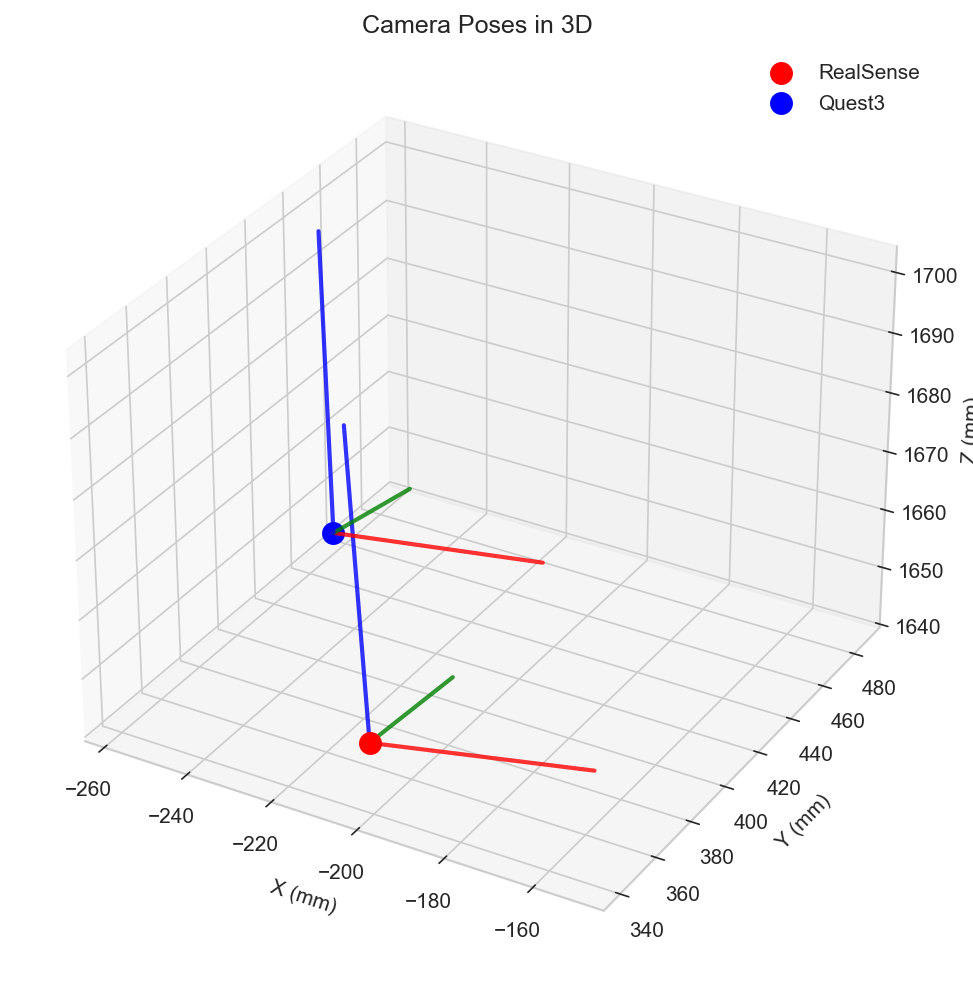
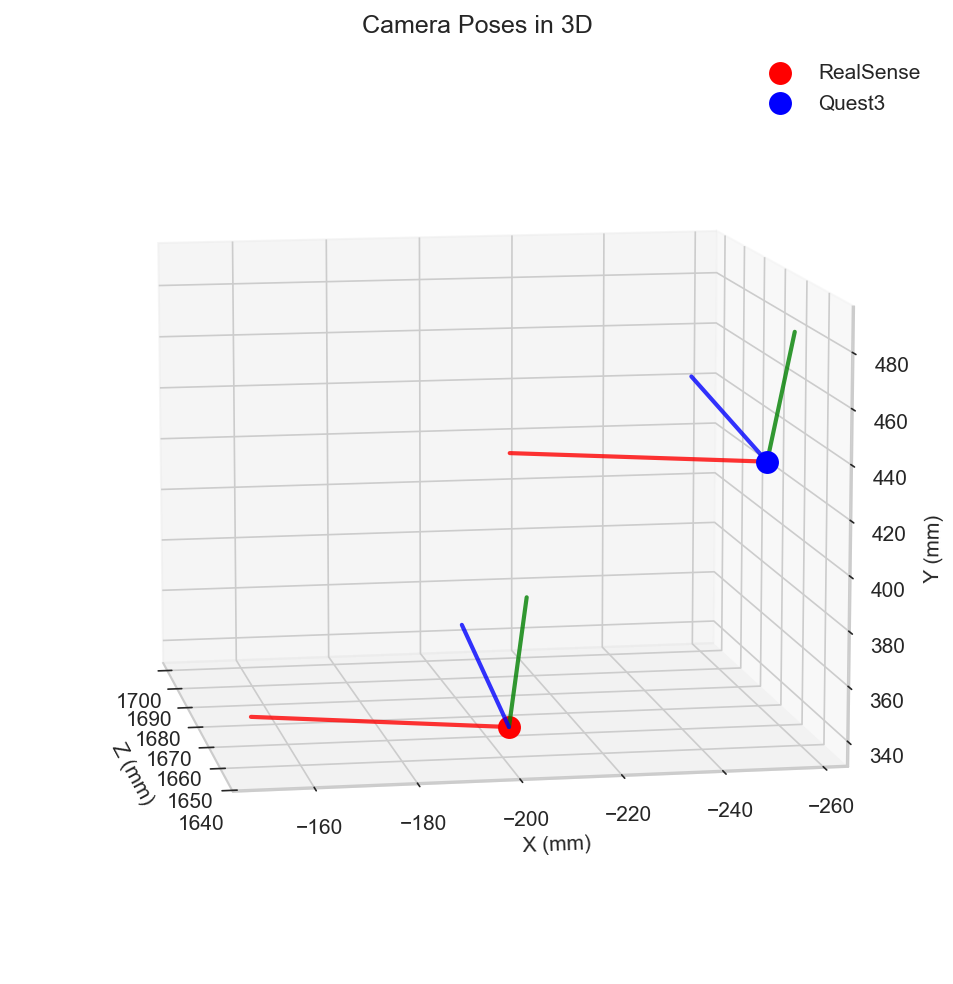
update figures

diff --git a/visualization/pointcloud.py b/visualization/pointcloud.py
@@ -31,11 +31,11 @@ class PointCloudVisualizer:
 
         ax1 = fig.add_subplot(121, projection='3d')
         ax1.scatter(
-            points_before[:, 0], points_before[:, 1], points_before[:, 2],
+            -points_before[:, 0], -points_before[:, 1], points_before[:, 2],
             c='red', s=50, alpha=0.6, label='Source (Before)'
         )
         ax1.scatter(
-            points_target[:, 0], points_target[:, 1], points_target[:, 2],
+            -points_target[:, 0], -points_target[:, 1], points_target[:, 2],
             c='blue', s=50, alpha=0.6, label='Target'
         )
         ax1.set_title('Before Registration')
@@ -43,14 +43,16 @@ class PointCloudVisualizer:
         ax1.set_ylabel('Y (mm)')
         ax1.set_zlabel('Z (mm)')
         ax1.legend()
+        
+        ax1.view_init(vertical_axis='y', azim=170, elev=10)
 
         ax2 = fig.add_subplot(122, projection='3d')
         ax2.scatter(
-            points_after[:, 0], points_after[:, 1], points_after[:, 2],
+            -points_after[:, 0], -points_after[:, 1], points_after[:, 2],
             c='red', s=50, alpha=0.6, label='Source (After)'
         )
         ax2.scatter(
-            points_target[:, 0], points_target[:, 1], points_target[:, 2],
+            -points_target[:, 0], -points_target[:, 1], points_target[:, 2],
             c='blue', s=50, alpha=0.6, label='Target'
         )
         ax2.set_title('After Registration')
@@ -58,6 +60,8 @@ class PointCloudVisualizer:
         ax2.set_ylabel('Y (mm)')
         ax2.set_zlabel('Z (mm)')
         ax2.legend()
+
+        ax2.view_init(vertical_axis='y', azim=170, elev=10)
 
         plt.tight_layout()
 

diff --git a/visualization/poses.py b/visualization/poses.py
@@ -62,6 +62,7 @@ class PoseVisualizer:
         ax.set_zlabel('Z (mm)')
         ax.set_title('Camera Poses in 3D')
         ax.legend()
+        ax.view_init(vertical_axis='y', azim=170, elev=10)
 
         if save_path:
             os.makedirs(os.path.dirname(save_path), exist_ok=True)
@@ -131,9 +132,9 @@ class PoseVisualizer:
 
         tvecs_array = np.array([tvec.flatten() for tvec in tvecs])
 
-        ax.plot(tvecs_array[:, 0], tvecs_array[:, 1], tvecs_array[:, 2],
+        ax.plot(-tvecs_array[:, 0], -tvecs_array[:, 1], tvecs_array[:, 2],
                 'b-', linewidth=2, alpha=0.7)
-        ax.scatter(tvecs_array[:, 0], tvecs_array[:, 1], tvecs_array[:, 2],
+        ax.scatter(-tvecs_array[:, 0], -tvecs_array[:, 1], tvecs_array[:, 2],
                   c=range(len(tvecs_array)), cmap='viridis', s=50)
 
         ax.set_xlabel('X (mm)')
@@ -141,6 +142,7 @@ class PoseVisualizer:
         ax.set_zlabel('Z (mm)')
         ax.set_title('Camera Trajectory')
         ax.legend() if labels else None
+        ax.view_init(vertical_axis='y', azim=170, elev=10)
 
         if save_path:
             os.makedirs(os.path.dirname(save_path), exist_ok=True)
@@ -186,6 +188,7 @@ class PoseVisualizer:
         ax.set_zlabel('Z (mm)')
         ax.set_title('Coordinate Frames')
         ax.legend()
+        ax.view_init(vertical_axis='y', azim=170, elev=10)
 
         if save_path:
             os.makedirs(os.path.dirname(save_path), exist_ok=True)

diff --git a/examples/intr-visual.py b/examples/intr-visual.py
@@ -242,7 +242,6 @@ def visualize_pixel_physical_relation(img_path: str, image_points: np.ndarray, o
     
     # --- 新增：修正 Y 轴方向 ---
     camera_points[:, 1] = -camera_points[:, 1] 
-
     camera_points[:, 0] = -camera_points[:, 0] 
 
     
